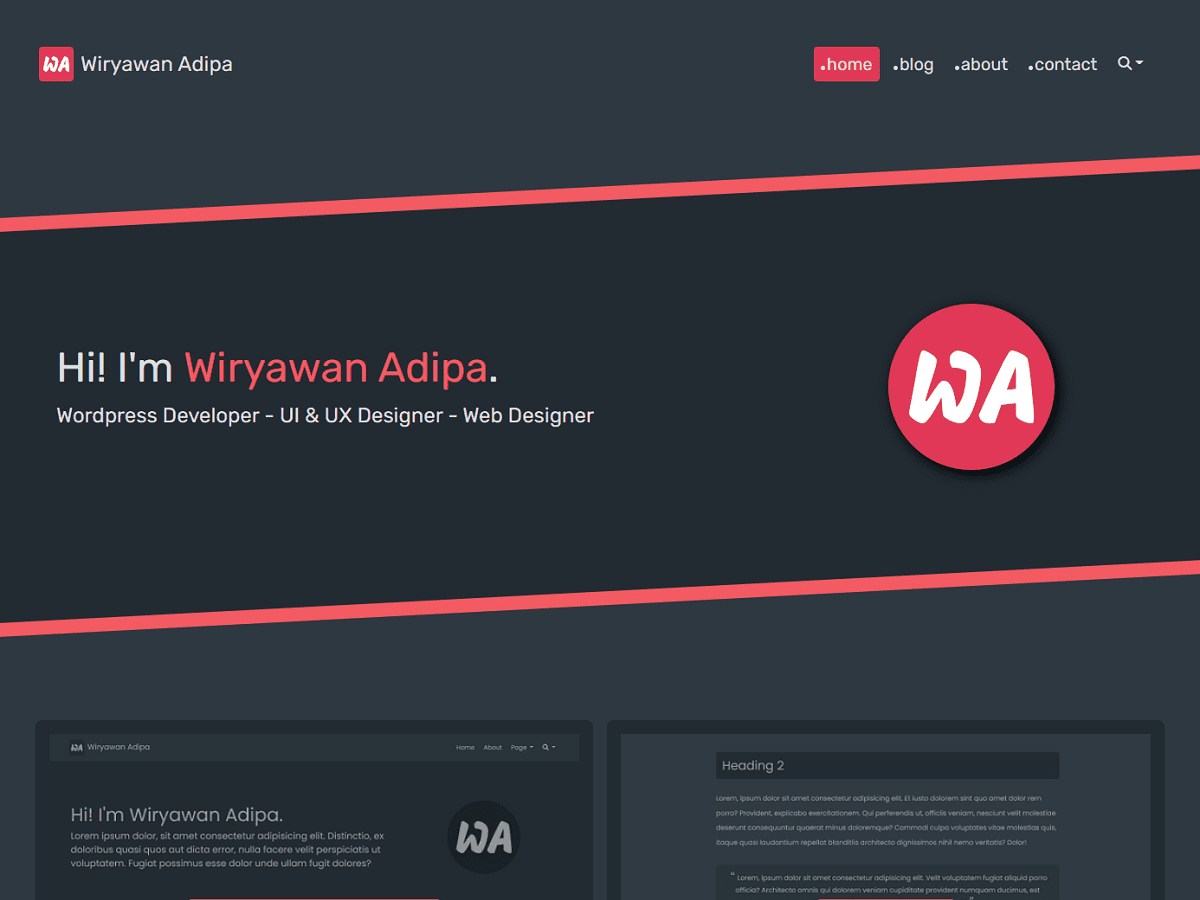
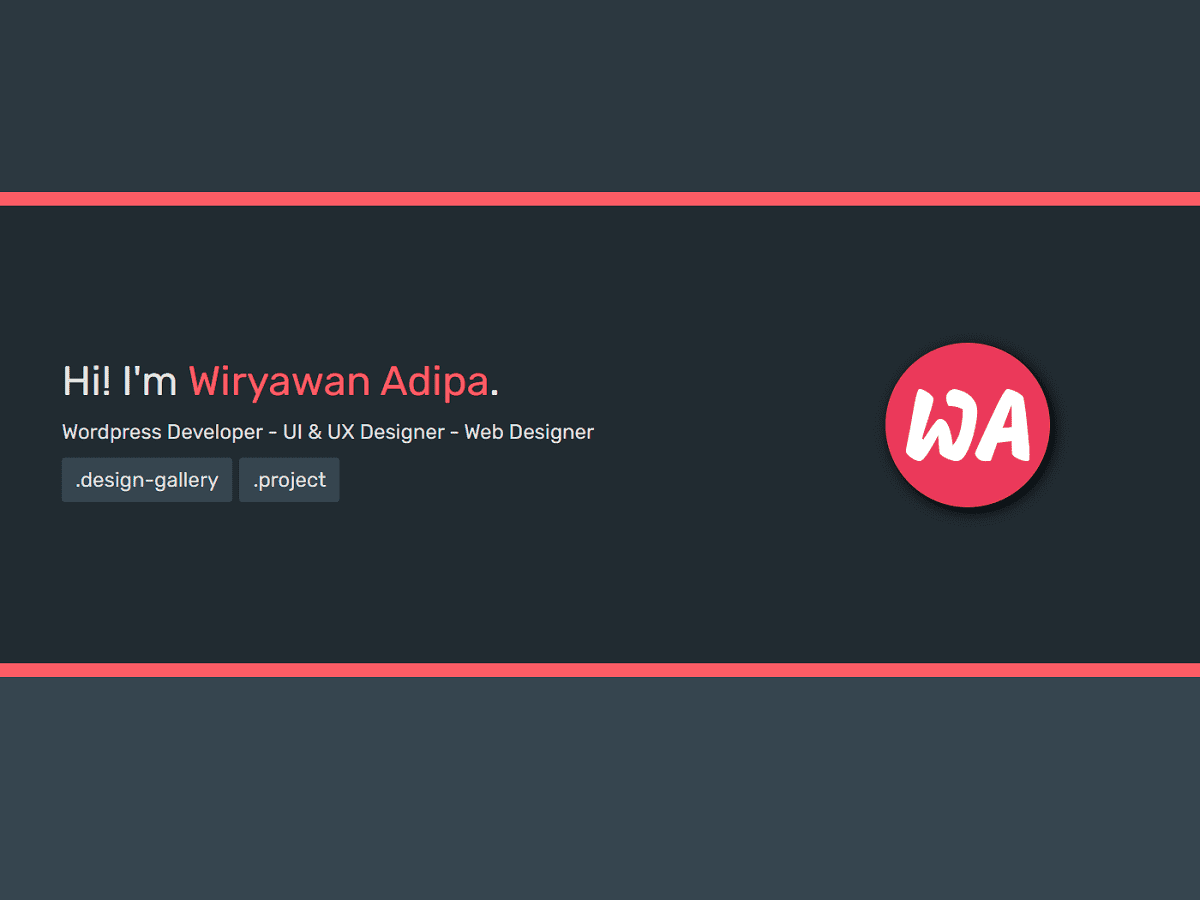
change screenshot

diff --git a/assets/css/wa-style.css b/assets/css/wa-style.css
@@ -189,10 +189,12 @@ body {
 
 .hero-heading-name {
 	color: var(--text-normal);
+	margin-bottom: .75rem;
 }
 
 .hero-heading-name h1 {
 	font-size: 3rem;
+	margin-bottom: 0;
 }
 
 .hero-name {
@@ -417,13 +419,7 @@ ol.breadcrumbs li a:hover {
 }
 
 .post-title-header {
-	padding: 0 1rem;
-}
-
-.post-title-header h1 {
-	color: var(--color-one);
-	font-weight: 800;
-	margin-bottom: 0;
+	padding: 1rem;
 }
 
 .post-info {
@@ -473,7 +469,6 @@ ol.breadcrumbs li a:hover {
 	background: var(--bg-color-three);
 	border-left: .375rem solid var(--color-one);
 	border-radius: 0.25rem;
-	color: var(--color-one);
 	line-height: 1.5;
 	margin: 1.75rem auto 0;
 	padding: .5rem 1rem;
@@ -558,7 +553,7 @@ ol.breadcrumbs li a:hover {
 	font-size: .8rem !important;
 	font-style: italic;
 	font-weight: 500;
-	padding-top: 1.5rem;
+	padding-top: 1rem;
 	text-align: right;
 }
 
@@ -744,6 +739,18 @@ ol.breadcrumbs li a:hover {
 		display: flex;
 		justify-content: center;
 		align-items: center;
+		text-align: center;
+	}
+
+	.hero-heading-name,
+	.hero-heading-text,
+	.hero-heading-link {
+		margin-bottom: 1.5rem;
+	}
+
+	.hero-heading-link {
+		gap: 1rem;
+		flex-direction: column;
 	}
 	
 	.wa-post-article p,

diff --git a/template-parts/parts/hero.php b/template-parts/parts/hero.php
@@ -3,13 +3,13 @@
 		<div class="row py-4 py-sm-5">
 			<div class="col-lg-8 p-xl-3">
 				<div class="hero-heading">
-					<div class="hero-heading-name pb-3 pb-sm-0 text-center text-lg-start">
+					<div class="hero-heading-name">
 						<h1>Hi! I'm <span class="hero-name"><?php echo get_bloginfo('name'); ?></span>.</h1>
 					</div>
-					<div class="hero-heading-text text-center text-lg-start">Wordpress Developer - UI & UX Designer - Web Designer</div>
-					<div class="hero-heading-link text-center text-lg-start">
-						<a href="<?php echo esc_url( get_category_link( get_cat_ID( 'Design Gallery' ) ) ); ?>">Design Gallery</a>
-						<a href="<?php echo esc_url( get_category_link( get_cat_ID( 'Project' ) ) ); ?>">Project</a>
+					<div class="hero-heading-text">Wordpress Developer - UI & UX Designer - Web Designer</div>
+					<div class="hero-heading-link">
+						<a href="<?php echo esc_url( get_category_link( get_cat_ID( 'Design Gallery' ) ) ); ?>" title="Design Gallery">.design-gallery</a>
+						<a href="<?php echo esc_url( get_category_link( get_cat_ID( 'Project' ) ) ); ?>" title="Project">.project</a>
 					</div>
 				</div>
 			</div>

diff --git a/single-post.php b/single-post.php
@@ -3,8 +3,8 @@
 	<article class="wa-post-article">
 		<?php breadcrumbs(); ?>
 		<div class="my-3 rounded-3 post-title">
-			<header class="py-3 post-title-header">
-				<h1 class="mb-3"><?php the_title(); ?></h1>
+			<header class="post-title-header">
+				<h1><?php the_title(); ?></h1>
 				<div class="post-info">
 					<i class="fa-solid fa-calendar-days"></i><span><time><?php echo get_the_date(); ?></time></span>
 					<?php
